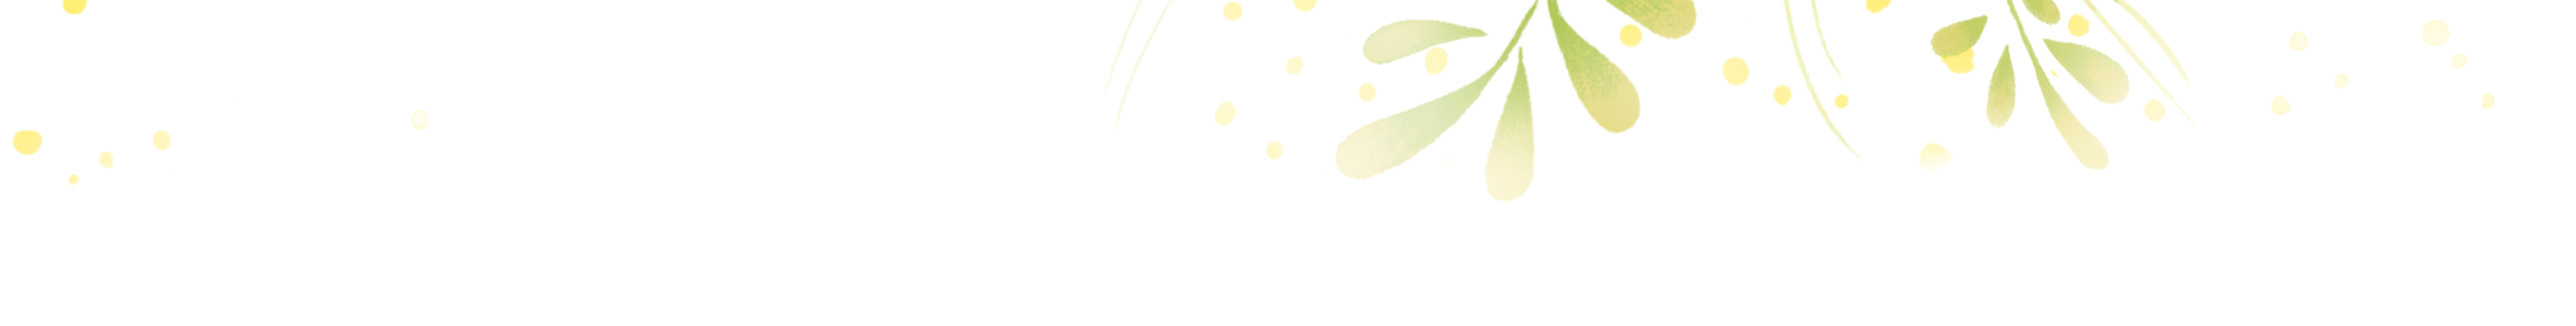
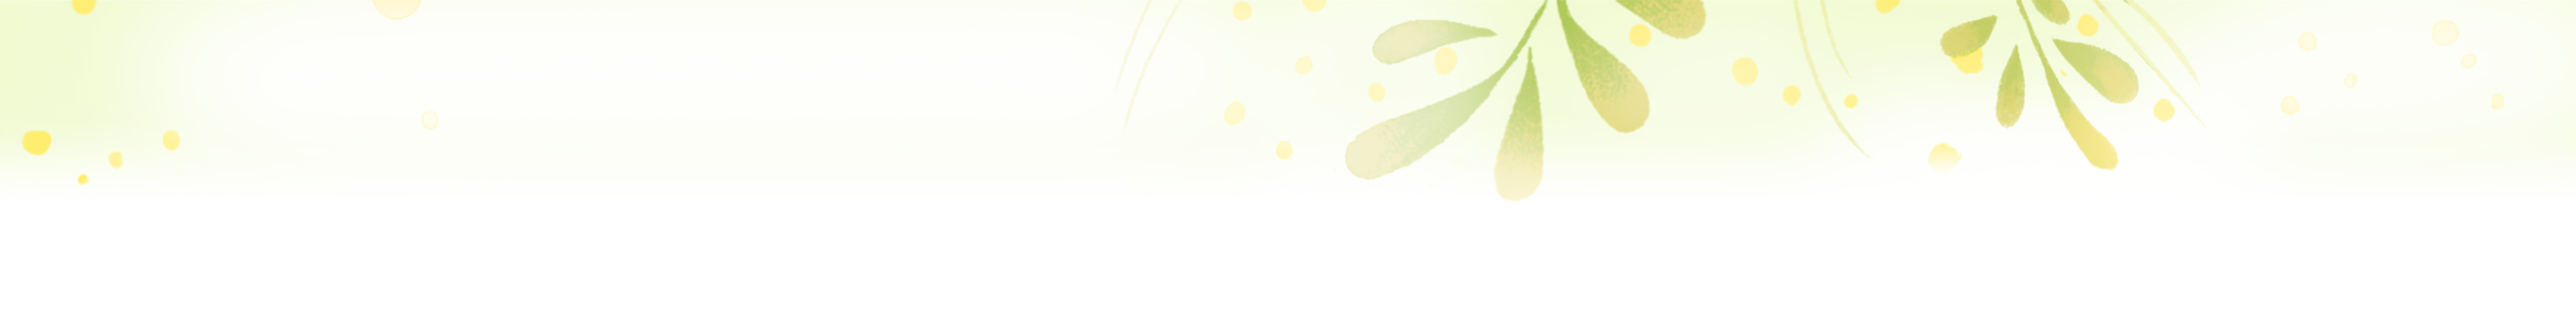
refactor secondary toolbar

diff --git a/src/app/doodles/doodletypes.ts b/src/app/doodles/doodletypes.ts
@@ -198,55 +198,35 @@ export const DOODLETYPES: Doodletype[] = [
         },
         toolbar: {
           L1: {
-            background: 'none',
             border: 'none',
             color: '#284505',
-            // // borderBottom: '1px solid #f4f5aa',
-            // borderBottom: 'none',
-            // background: `
-            //   url(./assets/styles/srp/summer-solstice__full-toolbar--2x.png) left center no-repeat,
-            //   #f4f5aa`,
+            background: `url(./assets/styles/srp/summer-solstice__decor@2x.png) left top no-repeat / 1920px 243px`,
           },
           L2: {
-            background: 'none',
+            background: `url(./assets/styles/srp/summer-solstice__decor--v2@2x.png) left top no-repeat / 1920px 243px`,
             border: 'none',
-            // height: '150px',
             color: '#284505',
-            // borderBottom: '1px solid #f4f5aa',
-            // borderBottom: 'none',
-            // background: `
-              // url(./assets/styles/srp/summer-solstice__full-top-toolbar--2x.png) left top / 100% 118px no-repeat, linear-gradient(#f4f5aa, white)`,
           },
           L3: {
             color: '#284505',
             borderBottom: 'none',
             background: 'transparent',
-            // background: `
-            //   url(./assets/styles/srp/summer-solstice__full-toolbar--2x.png) left center no-repeat, linear-gradient(to bottom, white , white)`,
           }
         },
         secondaryToolbar: {
-          simple: {
+          L1: {
             color: '#284505',
-            // borderBottom: '1px solid #f4f5aa',
             borderBottom: 'none',
-            background: `
-              url(./assets/styles/srp/summer-solstice__full-toolbar--2x.png) left center no-repeat,
-              #f4f5aa`,
+            background: `url(./assets/styles/srp/summer-solstice__decor@2x.png) left top no-repeat / 1920px 243px`,
+            },
+          L2: {
+            color: '#284505',
+            borderBottom: 'none',
+            background: `url(./assets/styles/srp/summer-solstice__decor--v2@2x.png) left top no-repeat / 1920px 243px`,
           },
-          elaborate: {
-            color: '#284505',
-            // borderBottom: '1px solid #f4f5aa',
-            borderBottom: 'none',
-            background: `
-              url(./assets/styles/srp/summer-solstice__full-top-toolbar--2x.png) left center no-repeat, linear-gradient(#f4f5aa, white)`,
-          },
-          whole: {
+          L3: {
             color: '#284505',
             borderBottom: 'none',
-            background: 'rgba(255,255,255,0.85)',
-            // background: `
-            //   url(./assets/styles/srp/summer-solstice__full-toolbar--2x.png) left center no-repeat, linear-gradient(to bottom, white , white)`,
           }
         }
       },

diff --git a/src/app/_srp/srp-toolbar/srp-toolbar.component.html b/src/app/_srp/srp-toolbar/srp-toolbar.component.html
@@ -5,9 +5,10 @@
   class="secondary-toolbar srp-toolbar"
 
   [ngStyle]="
-    this.globals.srpSimpleToolbarDecor ? doodletypes[this.globals.activeDoodleID].styles.srp.secondaryToolbar.simple :
-    this.globals.srpElaborateToolbarDecor ? doodletypes[this.globals.activeDoodleID].styles.srp.secondaryToolbar.L2 :
-    this.globals.srpWholePageDecor ? doodletypes[this.globals.activeDoodleID].styles.srp.secondaryToolbar.L3 :
+    this.globals.srpL3Decor ? this.doodletypes[this.globals.activeDoodleID].styles.srp.secondaryToolbar.L3 :
+    this.globals.srpL2Decor ? this.doodletypes[this.globals.activeDoodleID].styles.srp.secondaryToolbar.L2 :
+    this.globals.srpL1Decor ? this.doodletypes[this.globals.activeDoodleID].styles.srp.secondaryToolbar.L1 :
+    this.globals.srpL0Decor ? null :
     null"
 
 

diff --git a/src/app/app-menu/app-menu.component.ts b/src/app/app-menu/app-menu.component.ts
@@ -242,8 +242,6 @@ export class AppMenuComponent implements OnInit {
 
   private changeSrpDecor(x): void {
 
-
-
     if(x === 0){
 
       this.globals.srpL0Decor = true;
